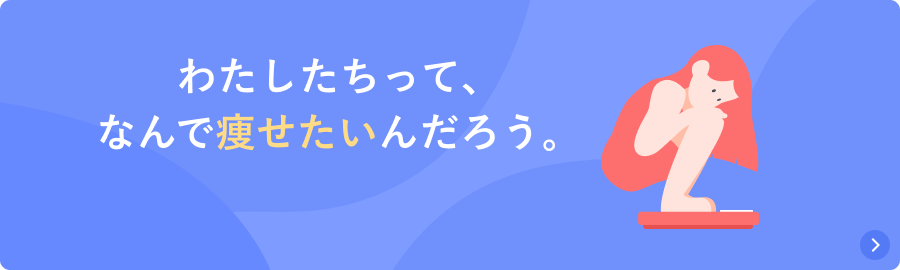
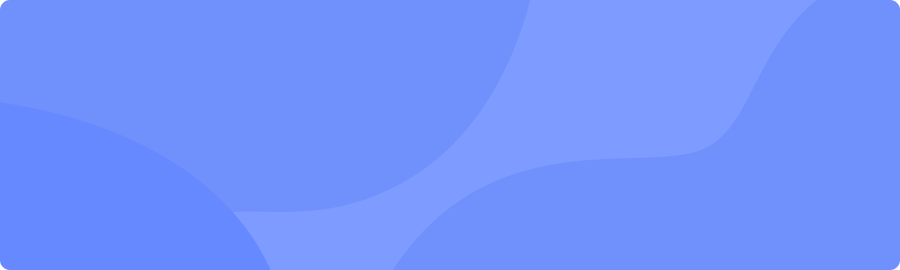
TOPページのバナーの調整

diff --git a/src/assets/css/common.css b/src/assets/css/common.css
@@ -1376,10 +1376,77 @@ transform: translateY(0);
 }
 
  /* fv */
- .p-bnr__inner {
-    position: relative;
-    overflow: hidden;
+
+ .p-bnr  {
+    display: block;
+    background: url(/assets/images/top_banner01.png) no-repeat;
+    background-size: cover;
+    border-radius: 10px;
+    padding: 50px 80px 50px 96px;
  }
+ 
+ .p-bnr__inner {
+    display: grid;
+    grid-gap: 19px;
+    grid-template-columns: 1.5fr 1fr;
+ }
+
+ .p-bnr__title {
+    color: var(--white);
+    text-align: center;
+    font-family: "Yu Gothic";
+    font-size: 40px;
+    font-style: normal;
+    font-weight: 700;
+    line-height: 140%;
+    letter-spacing: 0.8px;
+}
+
+.c-txt-yellow {
+    color: #FFDB85;
+}
+
+.p-bnr__btn {
+    border-radius: 22.5px;
+    background: var(--white);
+    display: flex;
+    justify-content: center;
+    align-items: center;
+    gap: 6px;
+    padding: 11px 34px 10px 35px;
+    margin-top: 13px;
+    max-width: 331px;
+}
+
+.p-bnr__btn-txt {
+    color: #526FD3;
+    font-family: "Yu Gothic";
+    font-size: 24px;
+    font-style: normal;
+    font-weight: 700;
+    line-height: 100%;
+    letter-spacing: 0.48px;
+}
+
+.p-bnr__btn-img {
+    width: 30px;
+    height: 22px;
+}
+
+.p-bnr__img {
+    width: 100%;
+}
+
+.p-bnr__imgArea-img {
+    width: 75%;
+}
+
+.p-bnr__titleArea {
+    display: flex;
+    flex-direction: column;
+    align-items: center;
+    justify-content: center;
+}
 
 .p-bnr__btnArea {
     position: absolute;

diff --git a/src/assets/js/fv.js b/src/assets/js/fv.js
@@ -110,3 +110,59 @@ container03.addEventListener('mouseleave', () => {
         ease: 'power2.out'
     });
 });
+
+
+// TOPページのHoverアクション用
+class Inview {
+    constructor() {
+      this.els = document.querySelectorAll('[data-inview]');
+      if (!this.els) return;
+      this.init();
+    }
+    init() {
+      this.els.forEach(el => {
+        const type = el.dataset.inview;
+        switch(type) {
+          case 'fade-left':
+          case 'fade-right':
+            this.inviewFadeSide(el);
+            break;
+          case 'fade-up':
+          case 'fade-down':
+            this.inviewFadeVertical(el);
+            break;
+        }
+      })
+    }
+    inviewFadeSide(el) {
+      gsap.to(el, {
+        scrollTrigger: {
+          trigger: el,
+          start: "top 80%",
+        },
+        onStart: () => {
+          gsap.to(el, {
+            x: 0, opacity: 1, duration: 0.6,
+            ease: Sine.easeOut,
+          })
+        }
+      })
+    }
+    inviewFadeVertical(el) {
+      gsap.to(el, {
+        scrollTrigger: {
+          trigger: el,
+          start: "top 80%",
+        },
+        onStart: () => {
+          gsap.to(el, {
+            y: 0, opacity: 1, duration: 0.6,
+            ease: Sine.easeOut,
+          })
+        }
+      })
+    }
+  }
+   
+  const inview = new Inview();
+  

diff --git a/src/assets/css/items.scss b/src/assets/css/items.scss
@@ -201,6 +201,34 @@
     }
 }
 
+.l-mainVisual {
+    margin-top: 120px;
+    text-align: center;
+}
+
+.p-mainVisual__txt {
+    color: var(--pink);
+    text-align: center;
+    font-family: "Yu Gothic";
+    font-size: 24px;
+    font-style: normal;
+    font-weight: 700;
+    line-height: 200%;
+    letter-spacing: -0.48px;
+}
+
+.p-mainVisual__img {
+    max-width: 780px;
+    margin-top: 80px;
+    position: relative;
+    bottom: 20px;
+}
+
+.l-ambassadorTxt {
+    display: grid;
+    gap: 32px;
+}
+
 /* Component */
 .c-center {
     text-align: center;
@@ -337,6 +365,25 @@
 .c-bg-yellow {
     background: #FFDB85;
 }  
+
+.c-bg-pink {
+    background: #FFF5F5;
+    border-radius: 30% 30% 0 0;
+    padding-top: 160px;
+    position: relative;
+    top: -50px;
+}
+
+.l-ambassadorTxt p {
+    color: var(--pink);
+    text-align: center;
+    font-family: "Yu Gothic";
+    font-size: 16px;
+    font-style: normal;
+    font-weight: 700;
+    line-height: 250%;
+    letter-spacing: -0.32px;
+    }
 
 /* sp */
 .sp {

diff --git a/src/assets/css/items.css b/src/assets/css/items.css
@@ -212,6 +212,34 @@
   }
 }
 
+.l-mainVisual {
+  margin-top: 120px;
+  text-align: center;
+}
+
+.p-mainVisual__txt {
+  color: var(--pink);
+  text-align: center;
+  font-family: "Yu Gothic";
+  font-size: 24px;
+  font-style: normal;
+  font-weight: 700;
+  line-height: 200%;
+  letter-spacing: -0.48px;
+}
+
+.p-mainVisual__img {
+  max-width: 780px;
+  margin-top: 80px;
+  position: relative;
+  bottom: 20px;
+}
+
+.l-ambassadorTxt {
+  display: grid;
+  gap: 32px;
+}
+
 /* Component */
 .c-center {
   text-align: center;
@@ -360,6 +388,25 @@
 
 .c-bg-yellow {
   background: #FFDB85;
+}
+
+.c-bg-pink {
+  background: #FFF5F5;
+  border-radius: 30% 30% 0 0;
+  padding-top: 160px;
+  position: relative;
+  top: -50px;
+}
+
+.l-ambassadorTxt p {
+  color: var(--pink);
+  text-align: center;
+  font-family: "Yu Gothic";
+  font-size: 16px;
+  font-style: normal;
+  font-weight: 700;
+  line-height: 250%;
+  letter-spacing: -0.32px;
 }
 
 /* sp */

diff --git a/src/ambassador.php b/src/ambassador.php
@@ -1,0 +1,56 @@
+<?php
+$title = "TOPページ |【公式】habit+";
+$description = "ページの説明をここに記載";
+$keywords = "キーワード1, キーワード2";
+$og_url = "http://habitplus/";
+$og_image = "http://og.png";
+$og_title = "TOP |【公式】habit+";
+$og_description = "Habit+の公式サイトへようこそ。";
+
+include __DIR__ . '/components/Header.php';
+?>
+
+<main>
+    <div class="c-bg-yellow">
+        <div class="wide-wrap">
+            <div class="l-items mt195">
+                <div class="c-hd-title-inner">
+                    <h2 class="c-hd-title-en zenkaku">Ambassador</h2>
+                    <p class="c-hd-title-ja">アンバサダー募集</p>
+                </div>
+                <div class="c-breadcrumbs">
+                    <p class="c-breadcrumbs-inner">
+                        <img src="/assets/images/breadcrumbs\home.svg" alt="パンくずリストアイコン" class="c-breadcrumbs-img-home">
+                        <img src="/assets/images/breadcrumbs\arw-thin-min.svg" alt="パンくずリスト矢印" class="c-breadcrumbs-img-arw">
+                        <span class="c-breadcrumbs-txt">アンバサダー募集</span>
+                    </p>
+                </div>
+                <div class="l-mainVisual">
+                    <p class="p-mainVisual__txt">Habit+(ハビットプラス)のアイテムや活動の認知・普及を、<br>
+                        InstagramなどのSNSを通した発信でお手伝いしていただける仲間を募集しています。</p>
+                    <picture>
+                        <source srcset="/assets/images/ambassador/ambassador-phone.png 1x, /assets/images/ambassador/ambassador-phone@2.png 2x" />
+                        <img src="/assets/images/ambassador/ambassador-phone.png 1x" alt="アンバサダー募集" class="p-mainVisual__img">
+                    </picture>
+                </div>
+            </div>
+        </div>
+        <div class="c-bg-pink">
+            <div class="l-ambassadorTxt">
+                <p>「食べたい」「我慢したくない」「綺麗に、健康になりたい」<br>
+                    みんなの願いをサポートするために生まれたHabit+(ハビットプラス)。</p>
+                <p>ダイエットは辛いこと、我慢することという固定観念を払拭すると共に、<br>
+                    たくさんの方に私たちのアイテムや活動を知ってもらいたいと考えています。</p>
+                <p>「みんなと一緒にダイエットを頑張りたい」<br>
+                    「健康や美に関する情報を発信していきたい」<br>
+                    「頑張っている人たちの力になりたい」</p>
+                <p>こんな気持ちを持っている方と共に、Habit+は成長していきたいです。<br>
+                    あなたのご応募お待ちしております！</p>
+            </div>
+        </div>
+    </div>
+</main>
+
+<?php
+include __DIR__ . '/components/Footer.php';
+?>

diff --git a/src/index.php b/src/index.php
@@ -108,19 +108,32 @@ include __DIR__ . '/components/header.php';
             <div class="bnr-box">
                 <a href="" class="p-bnr">
                     <div class="p-bnr__inner">
+                        <div class="p-bnr__titleArea">
+                            <h3 class="p-bnr__title">わたしたちって、<br>なんで
+                                <span class="c-txt-yellow">痩せたい</span>んだろう。
+                            </h3>
+                            <p class="p-bnr__btn">
+                                <img src="/assets/images/book.svg" alt="ブランド誕生ストーリーへ" class="p-bnr__btn-img">
+                                <span class="p-bnr__btn-txt">ブランド誕生ストーリーへ</span>
+                            </p>
+                        </div>
+                        <div class="p-bnr__imgArea">
+                            <figure>
+                                <img src="/assets/images/bnr01_woman.png" alt="わたしたちって、なんで痩せたいんだろう。" class="p-bnr__imgArea-img">
+                            </figure>
+                        </div>
+                    </div>
                         <img src="/assets/images/bown_flip.png" alt="フリップ" class="p-bnr__img-flip">
                         <img src="/assets/images/bnr01_mas.png" alt="マスコット" class="p-bnr__img-mascot">
-                        <img src="/assets/images/top_banner01@2x.png" alt="わたしたちって、なんで痩せたいんだろう。" class="p-bnr__img">
                         <div class="p-bnr__btnArea">
                             <img src="/assets/images/book.svg" alt="ブランド誕生ストーリーへ">
                             <p class="p-bnr__btn">ブランド誕生ストーリーへ</p>
                         </div>
-                    </div>
                 </a>
                 <div class="btn-flex-block">
                     <a href="" class="p-bnr--02">
-                    <img src="/assets/images/mascot_lineup.png" alt="マスコット3匹" class="p-bnr__img-mascot-top">
-                    <img src="/assets/images/mascot_lineup02.png" alt="マスコット1匹" class="p-bnr__img-mascot-bottom">
+                        <img src="/assets/images/mascot_lineup.png" alt="マスコット3匹" class="p-bnr__img-mascot-top">
+                        <img src="/assets/images/mascot_lineup02.png" alt="マスコット1匹" class="p-bnr__img-mascot-bottom">
                         <picture>
                             <source srcset="/assets/images/top_bnr02.png" media="(max-width: 768px)" />
                             <img src="/assets/images/top_banner02.png" alt="">
